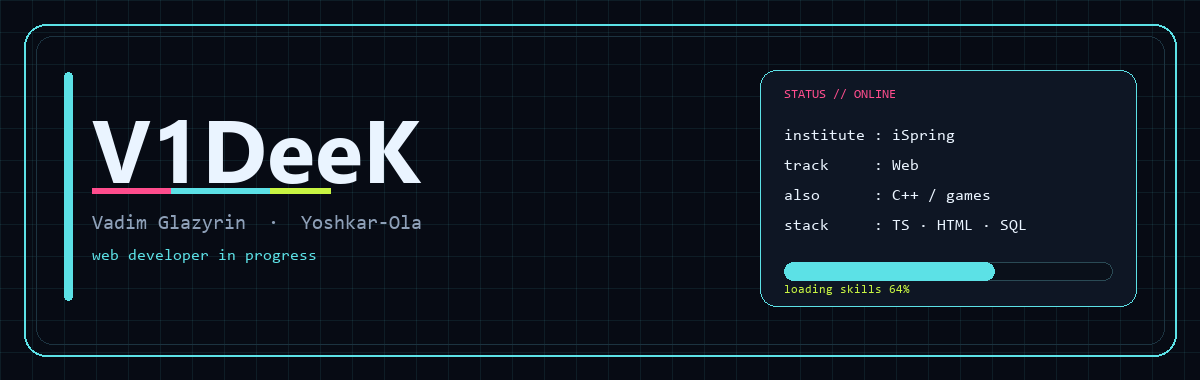
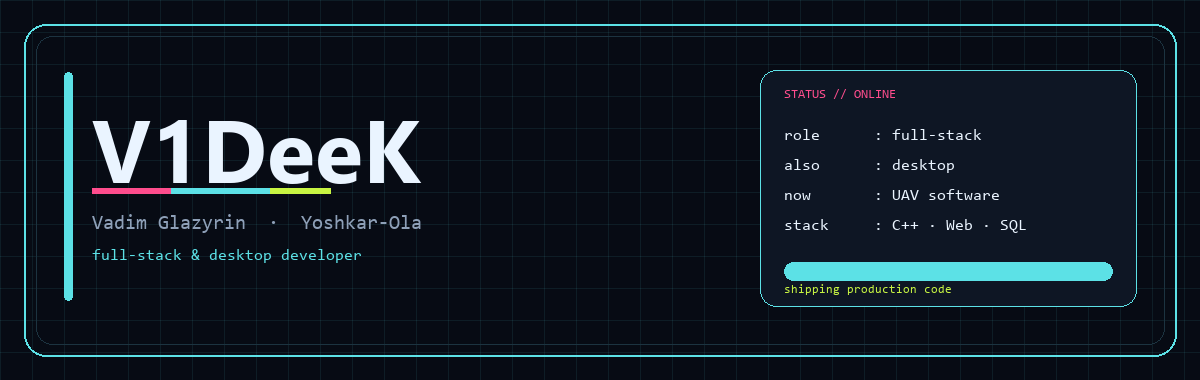
docs: собрать профиль как у действующего разработчика

diff --git a/README.md b/README.md
@@ -5,7 +5,7 @@
 <br/>
 
 <div align="center">
-  <img src="https://readme-typing-svg.demolab.com?font=Fira+Code&weight=600&size=22&duration=2800&pause=900&color=5CE1E6&center=true&vCenter=true&width=680&lines=%D0%9F%D1%80%D0%B8%D0%B2%D0%B5%D1%82%2C+%D1%8F+%D0%92%D0%B0%D0%B4%D0%B8%D0%BC;Web+developer+in+progress;Yoshkar-Ola+%C2%B7+iSpring+Institute;React+%2B+TypeScript+%2B+C%2B%2B" alt="typing"/>
+  <img src="https://readme-typing-svg.demolab.com?font=Fira+Code&weight=600&size=22&duration=2800&pause=900&color=5CE1E6&center=true&vCenter=true&width=720&lines=%D0%9F%D1%80%D0%B8%D0%B2%D0%B5%D1%82%2C+%D1%8F+%D0%92%D0%B0%D0%B4%D0%B8%D0%BC;Full-stack+%26+desktop+developer;%D0%9F%D0%9E+%D0%B4%D0%BB%D1%8F+%D1%83%D0%BF%D1%80%D0%B0%D0%B2%D0%BB%D0%B5%D0%BD%D0%B8%D1%8F+%D0%91%D0%9F%D0%9B%D0%90;C%2B%2B+%C2%B7+Web+%C2%B7+SQL+%C2%B7+OpenCV" alt="typing"/>
 </div>
 
 <div align="center">
@@ -19,42 +19,72 @@
     <img src="https://img.shields.io/badge/VK-mr.varder-0077FF?style=for-the-badge&logo=vk&logoColor=white" alt="VK"/>
   </a>
   <img src="https://img.shields.io/badge/Yoshkar--Ola-0B1220?style=for-the-badge&logo=googlemaps&logoColor=C8F542" alt="Yoshkar-Ola"/>
-  <img src="https://img.shields.io/badge/iSpring-Institute-FF4D8D?style=for-the-badge" alt="iSpring"/>
+  <img src="https://img.shields.io/badge/Full--stack-Desktop-5CE1E6?style=for-the-badge&logoColor=070B14" alt="Full-stack desktop"/>
   <img src="https://komarev.com/ghpvc/?username=V1DeeK&style=for-the-badge&color=5CE1E6" alt="Profile views"/>
 </div>
 
 ---
 
-Я **Вадим Глазырин**, учусь на программиста в Институте программных систем iSpring в Йошкар-Оле. Собираю портфолио сразу по двум дорожкам: **веб**, куда хочу прийти, и **C++ / игры**, через которые уже умею доводить идеи до работающего кода.
+Я **Вадим Глазырин**, full-stack и desktop-разработчик из Йошкар-Олы. Пишу прикладное ПО: от десктопных систем и компьютерного зрения до внутренних веб-сервисов и баз документов. Сейчас разрабатываю программное обеспечение для управления БПЛА в Центре информационных технологий.
 
-Цель простая: стать востребованным web-программистом.
+Инженерный бэкграунд — радиоэлектроника. Переквалификацию по software engineering прошёл в [Институте iSpring](https://ispring.institute/), уже работая разработчиком.
 
 ## Сейчас
 
-- учусь web-разработке в iSpring Institute
-- собираю учебные и личные проекты, а не только лабораторные
-- открыт к коду, ревью и нормальным задачам, из которых можно вырасти
+**Центр информационных технологий** · full-stack и desktop-разработчик
 
-## Две дорожки
+Разрабатываю программное обеспечение для управления БПЛА: десктопные рабочие места оператора, обмен данными с бортом и наземной частью, веб-интерфейсы сопровождения и служебные сервисы вокруг контура управления.
+
+## Опыт
+
+| Роль | Место | Что делал |
+| --- | --- | --- |
+| **Full-stack & desktop** | Центр информационных технологий | ПО для управления БПЛА: десктоп, веб, обмен данными с системой |
+| **Full-stack** | Машиностроительный завод | Программы проверки аппаратуры и изделий. Внутренний сайт завода: главная, вакансии, поиск по разделам. База локальных нормативных актов — документы можно было искать и читать с сайта |
+| **Desktop, совместительство** | Спортивный центр | ПО управления табло на баскетбольных матчах. Подсчёт игровой статистики по видео: детекция событий на записи, трекинг игроков, протокол матча |
+
+На заводе собирал полный контур: десктоп для стендов проверки, веб для сотрудников и SQL-хранилище документов с поиском по реквизитам и тексту.
+
+В спортивном центре десктоп общался с контроллером табло по TCP/UDP, вёл игровые часы, счёт, фолы и тайм-ауты. Статистика по видео шла через пайплайн **FFmpeg → OpenCV → Python/C++**: калибровка камеры, вычитание фона, трекинг, разметка событий (бросок, подбор, фол), выгрузка в SQLite и на табло.
+
+## Образование
+
+**2016 — 2022** · инженер  
+[Поволжский государственный технологический университет](https://www.volgatech.net/)  
+Специальность: **радиоэлектронные системы и комплексы**
+
+**Переквалификация** · [Институт iSpring](https://ispring.institute/)  
+Прошёл программу, уже работая разработчиком:
+
+- основы программирования
+- web и frontend-разработка
+- базы данных
+- объектно-ориентированное программирование на C++
+- дискретная и комбинаторная математика
+- алгоритмы и структуры данных
+
+Дополнительно — курс **Project Manager**.
+
+Учебные проекты с этой программы закреплены ниже: веб, C++, базы данных, алгоритмы.
+
+## Проекты переквалификации
 
 <table>
 <tr>
 <td width="50%" valign="top">
 
-### Web
-Первый большой учебный проект на React — [Presentation-Maker](https://github.com/V1DeeK/Presentation-Maker). Рядом верстка и веб-практика в [WEB-2025](https://github.com/V1DeeK/WEB-2025). Базы данных закрываю в [BD_Ispring](https://github.com/V1DeeK/BD_Ispring).
+### Web & data
+[Presentation-Maker](https://github.com/V1DeeK/Presentation-Maker) — учебный редактор презентаций на React/TypeScript. [WEB-2025](https://github.com/V1DeeK/WEB-2025) — вёрстка и frontend. [BD_Ispring](https://github.com/V1DeeK/BD_Ispring) — курс по базам данных.
 
 </td>
 <td width="50%" valign="top">
 
-### Games & C++
-Игровые прототипы: [flappyBird](https://github.com/V1DeeK/flappyBird), [game_project_cpp](https://github.com/V1DeeK/game_project_cpp) на SFML и [CL](https://github.com/V1DeeK/CL) — аналог Crimsonland. Алгоритмы и комбинаторика живут в [combinatorics_ispring](https://github.com/V1DeeK/combinatorics_ispring).
+### C++ & algorithms
+[flappyBird](https://github.com/V1DeeK/flappyBird) и [game_project_cpp](https://github.com/V1DeeK/game_project_cpp) на SFML. [CL](https://github.com/V1DeeK/CL) — прототип в духе Crimsonland. [combinatorics_ispring](https://github.com/V1DeeK/combinatorics_ispring) и [algoritms-and-data-structures-](https://github.com/V1DeeK/algoritms-and-data-structures-) — математика, алгоритмы, структуры данных.
 
 </td>
 </tr>
 </table>
-
-## Избранное
 
 <p align="center">
   <a href="https://github.com/V1DeeK/Presentation-Maker">
@@ -76,17 +106,19 @@
 ## Стек
 
 <p align="center">
-  <img src="https://skillicons.dev/icons?i=html,css,js,ts,react,cpp,python,git,github,vscode&theme=dark&perline=10" alt="Skills"/>
+  <img src="https://skillicons.dev/icons?i=cpp,cs,python,html,css,js,ts,react,qt,opencv,dotnet,postgres,git,github,vscode&theme=dark&perline=8" alt="Skills"/>
 </p>
 
 <p align="center">
-  <img src="https://img.shields.io/badge/HTML5-E34F26?style=for-the-badge&logo=html5&logoColor=white" alt="HTML5"/>
-  <img src="https://img.shields.io/badge/CSS3-1572B6?style=for-the-badge&logo=css3&logoColor=white" alt="CSS3"/>
+  <img src="https://img.shields.io/badge/C++-00599C?style=for-the-badge&logo=cplusplus&logoColor=white" alt="C++"/>
+  <img src="https://img.shields.io/badge/C%23-239120?style=for-the-badge&logo=csharp&logoColor=white" alt="C#"/>
+  <img src="https://img.shields.io/badge/Python-3776AB?style=for-the-badge&logo=python&logoColor=white" alt="Python"/>
+  <img src="https://img.shields.io/badge/OpenCV-5C3EE8?style=for-the-badge&logo=opencv&logoColor=white" alt="OpenCV"/>
+  <img src="https://img.shields.io/badge/Qt-41CD52?style=for-the-badge&logo=qt&logoColor=white" alt="Qt"/>
+  <img src="https://img.shields.io/badge/.NET-512BD4?style=for-the-badge&logo=dotnet&logoColor=white" alt=".NET"/>
   <img src="https://img.shields.io/badge/JavaScript-F7DF1E?style=for-the-badge&logo=javascript&logoColor=black" alt="JavaScript"/>
   <img src="https://img.shields.io/badge/TypeScript-3178C6?style=for-the-badge&logo=typescript&logoColor=white" alt="TypeScript"/>
   <img src="https://img.shields.io/badge/React-61DAFB?style=for-the-badge&logo=react&logoColor=black" alt="React"/>
-  <img src="https://img.shields.io/badge/C++-00599C?style=for-the-badge&logo=cplusplus&logoColor=white" alt="C++"/>
-  <img src="https://img.shields.io/badge/Python-3776AB?style=for-the-badge&logo=python&logoColor=white" alt="Python"/>
   <img src="https://img.shields.io/badge/SQL-336791?style=for-the-badge&logo=postgresql&logoColor=white" alt="SQL"/>
 </p>
 
@@ -107,7 +139,7 @@
 
 ## Связь
 
-Если нужно обсудить код, учёбу или совместный учебный проект — пишите.
+Если нужно обсудить задачу, код или сотрудничество — пишите.
 
 <p align="center">
   <a href="https://github.com/V1DeeK"><img src="https://img.shields.io/badge/GitHub-181717?style=for-the-badge&logo=github&logoColor=white" alt="GitHub"/></a>
